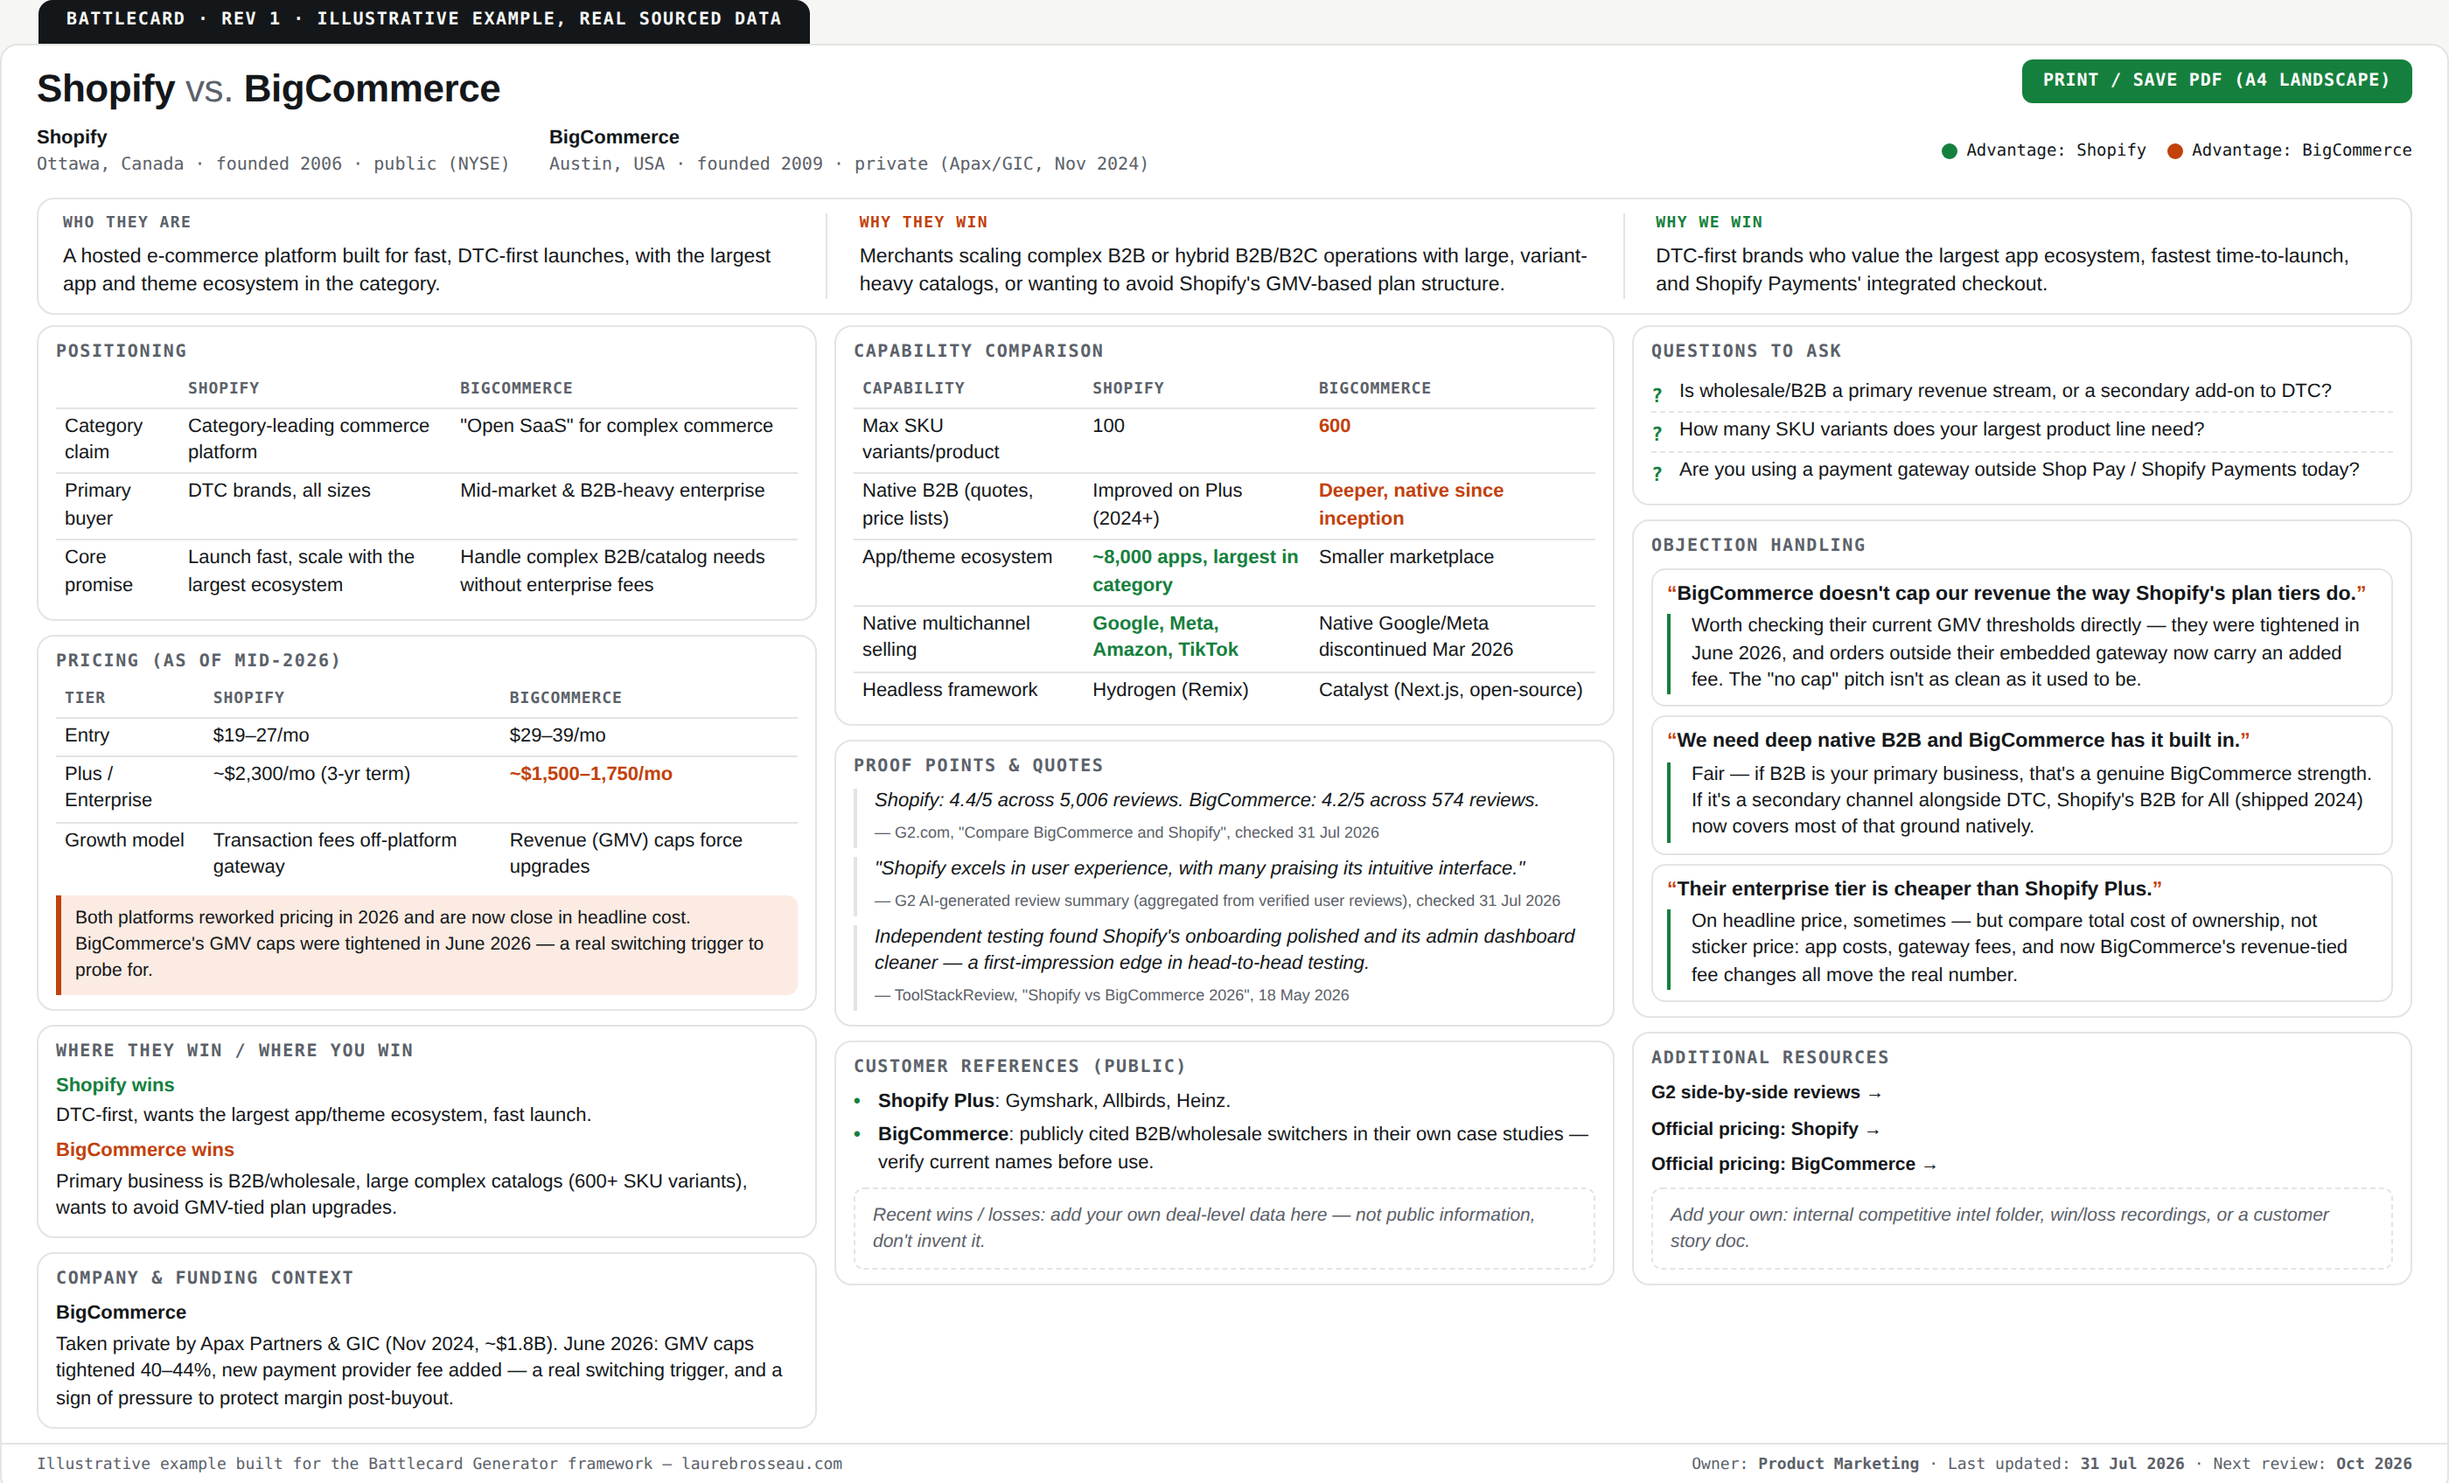
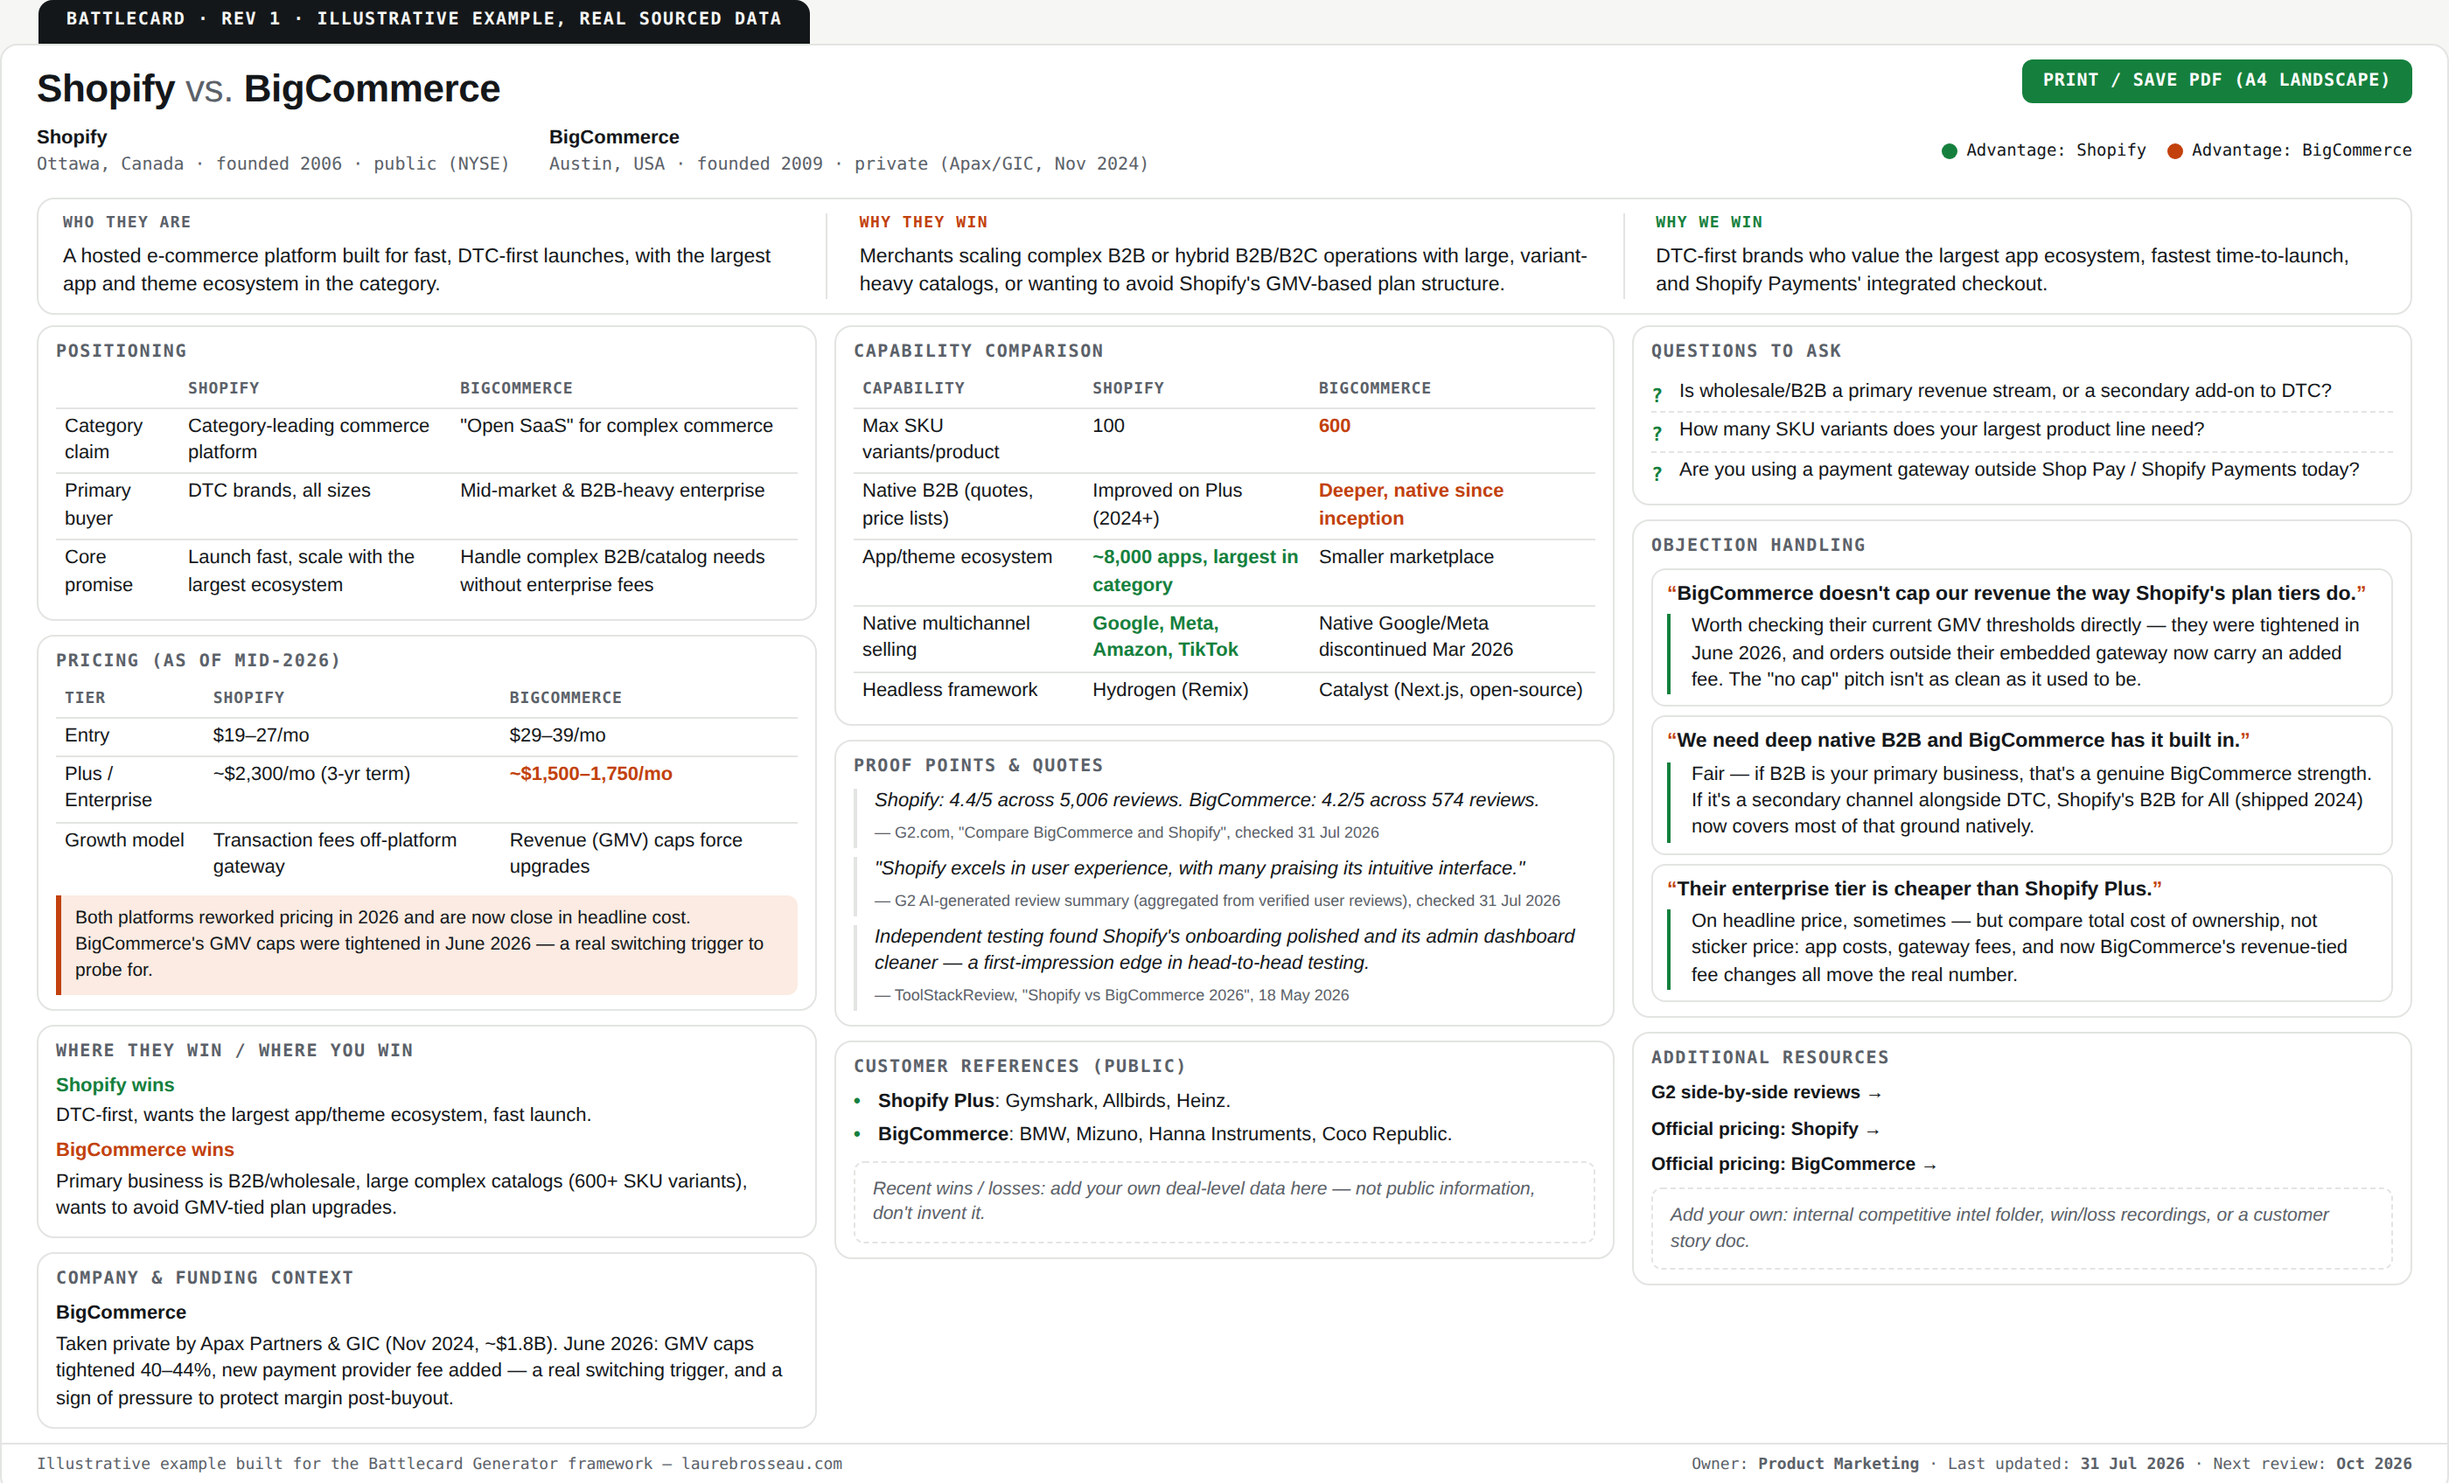
Add files via upload

Changed region(s): [[0.3418, 0.75, 0.6525, 0.8438]]

diff --git a/battlecard-shopify-vs-bigcommerce.html b/battlecard-shopify-vs-bigcommerce.html
@@ -319,7 +319,7 @@
       <div class="block">
         <p class="eyebrow-h">Customer references (public)</p>
         <div class="proof"><strong>Shopify Plus</strong>: Gymshark, Allbirds, Heinz.</div>
-        <div class="proof"><strong>BigCommerce</strong>: publicly cited B2B/wholesale switchers in their own case studies &mdash; verify current names before use.</div>
+        <div class="proof"><strong>BigCommerce</strong>: BMW, Mizuno, Hanna Instruments, Coco Republic.</div>
         <div class="placeholder">Recent wins / losses: add your own deal-level data here &mdash; not public information, don't invent it.</div>
       </div>
     </div>
